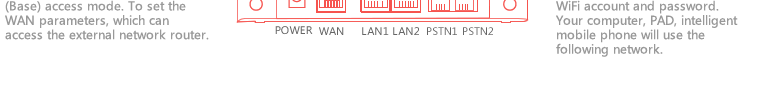
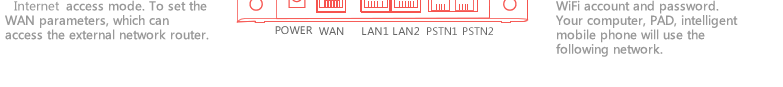
modify help info and map pic

Changed region(s): [[0.0, 0.0, 0.2759, 0.1379]]

diff --git a/rootfs/cgiCommon/usr/www/help/ad_man_timezone_help_z.html b/rootfs/cgiCommon/usr/www/help/ad_man_timezone_help_z.html
@@ -17,14 +17,14 @@
 <tr>
   <td class="head">手动设置步骤</td>
   <td>
-  <span>单击主机同步,将会获取当前设备时间并对HBD路由系统时间进行同步设定。</span>
+  <span>单击主机同步,将会获取当前设备时间并对HBD路由系统时间进行同步设定</span>
   </td>
   </tr>
   
   <tr>
   <td class="head">自动设置步骤</td>
   <td>
-  <span>首先请您先启用自动同步网络时间服务器功能，然后选择您所在的时区，在首选和备选网络时间服务器栏内填入IP或者域名地址，最后单击“应用”完成系统时间的设置。</span>
+  <span>首先请您先启用自动同步网络时间服务器功能，然后选择您所在的时区，在首选和备选网络时间服务器栏内填入IP或者域名地址，最后单击“应用”完成系统时间的设置</span>
   </td>
   </tr>
  </table>

diff --git a/rootfs/cgiCommon/usr/www/help/ad_wireless_advan_help_e.html b/rootfs/cgiCommon/usr/www/help/ad_wireless_advan_help_e.html
@@ -37,7 +37,7 @@
 <table width="100%" cellpadding="0" cellspacing="0"   style="border-top: 0px;" class="handaer_text">
 <tr>
   <td>
-	<span style="color:#ff3c00">Note: wireless advanced settings on this router has been configured to the best. If there is no support staff guidance, not to change the. If the change is inappropriate, there may be an accident, resulting in the router is unable to work.</span>
+	<span style="color:#ff3c00">Note: wireless advanced settings on this router has been configured to the best. If there is no support staff guidance, not to change the. If the change is inappropriate, there may be an accident, resulting in the router is unable to work</span>
 <br>
   </td>
 </tr>

diff --git a/rootfs/cgiCommon/usr/www/help/ad_wireless_advan_help_z.html b/rootfs/cgiCommon/usr/www/help/ad_wireless_advan_help_z.html
@@ -36,7 +36,7 @@
 <table width="100%" cellpadding="0" cellspacing="0"   style="border-top: 0px;" class="handaer_text">
 <tr>
   <td>
-	<span style="color:#ff3c00">注意：本路由器的无线高级设置已配置到最佳。如无支持人员指导，切勿对其进行更改。如更改不当，则有可能发生意外，从而致使路由器无法工作。</span>
+	<span style="color:#ff3c00">注意：本路由器的无线高级设置已配置到最佳。如无支持人员指导，切勿对其进行更改。如更改不当，则有可能发生意外，从而致使路由器无法工作</span>
 <br>
   </td>
 </tr>

diff --git a/rootfs/cgiCommon/usr/www/help/ad_man_reboot_help_e.html b/rootfs/cgiCommon/usr/www/help/ad_man_reboot_help_e.html
@@ -18,7 +18,7 @@
   <td class="head">Matters needing attention</td>
   <td>
   <span>
-The router needs to take effect in the router settings after the restart, click this button to restart the router. <br>
+The router needs to take effect in the router settings after the restart, click this button to restart the router<br>
 Need to reboot the router settings: <br>
 - Update HBD router software (the system to automatically restart) <br>
 - To restore the factory settings (HBD router system to automatically restart) <br>

diff --git a/rootfs/cgiCommon/usr/www/help/ad_man_reboot_help_z.html b/rootfs/cgiCommon/usr/www/help/ad_man_reboot_help_z.html
@@ -18,7 +18,7 @@
   <td class="head">注意事项</td>
   <td>
   <span>
-本路由器的某些设置需要在路由器重新启动后才能生效，单击此按钮即可使路由器重新启动。<br> 
+本路由器的某些设置需要在路由器重新启动后才能生效，单击此按钮即可使路由器重新启动<br> 
 需要重启路由器的设置项目有：<br>
 - 升级HBD路由器的软件（系统自动重启）<br>
 - 恢复HBD路由器的出厂设置（系统自动重启）<br>

diff --git a/rootfs/cgiCommon/usr/www/help/ad_man_timezone_help_e.html b/rootfs/cgiCommon/usr/www/help/ad_man_timezone_help_e.html
@@ -17,7 +17,7 @@
 <tr>
   <td class="head">Manual setup steps</td>
   <td>
-  <span>Click the synchronization host, will get the current time and equipment of HBD routing system time synchronization settings.</span>
+  <span>Click the synchronization host, will get the current time and equipment of HBD routing system time synchronization settings</span>
   </td>
   </tr>
   

diff --git a/rootfs/cgiCommon/usr/www/help/ad_local_dhcp_help_z.html b/rootfs/cgiCommon/usr/www/help/ad_local_dhcp_help_z.html
@@ -29,7 +29,7 @@
    <tr> 
   <td class="head">租用时间</td>
   <td>
-  <span>DHCP服务器所自动分配的IP的有效时间，超过该时间后用户主机会自动进行续约操作。</span>
+  <span>DHCP服务器所自动分配的IP的有效时间，超过该时间后用户主机会自动进行续约操作</span>
   </td>
   </tr>  
  </table>
